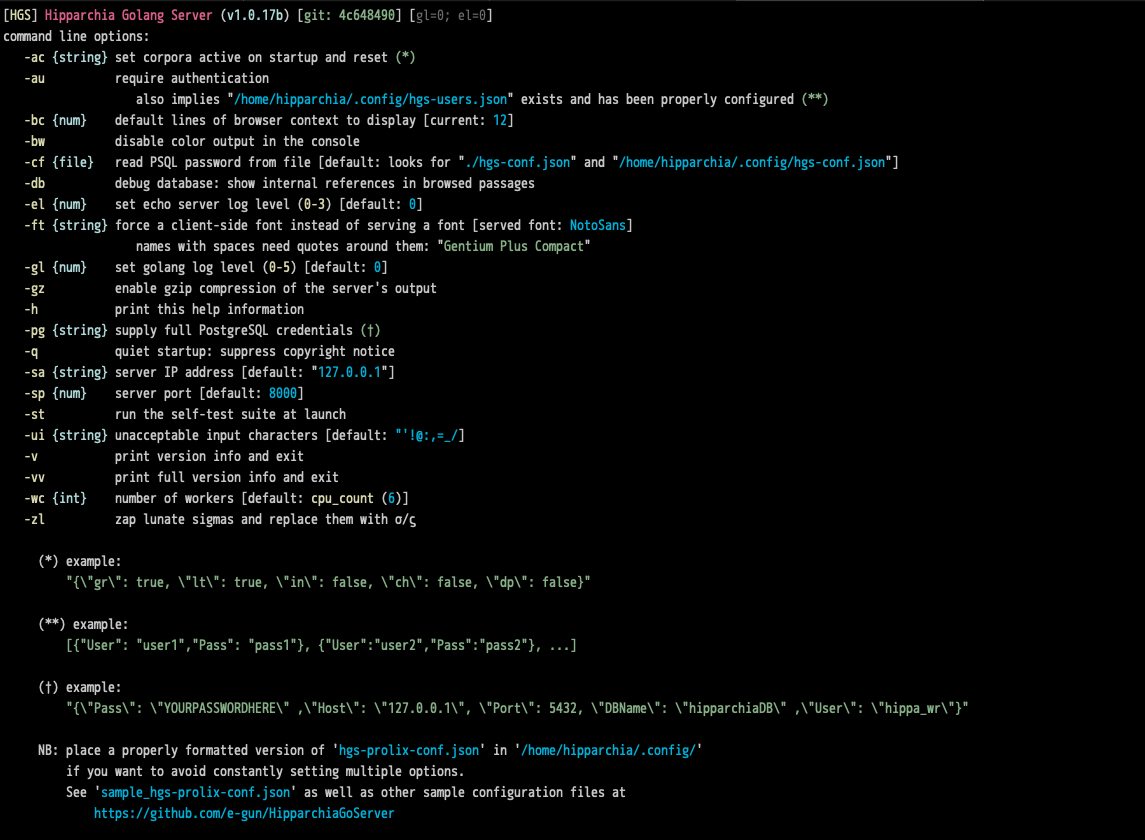
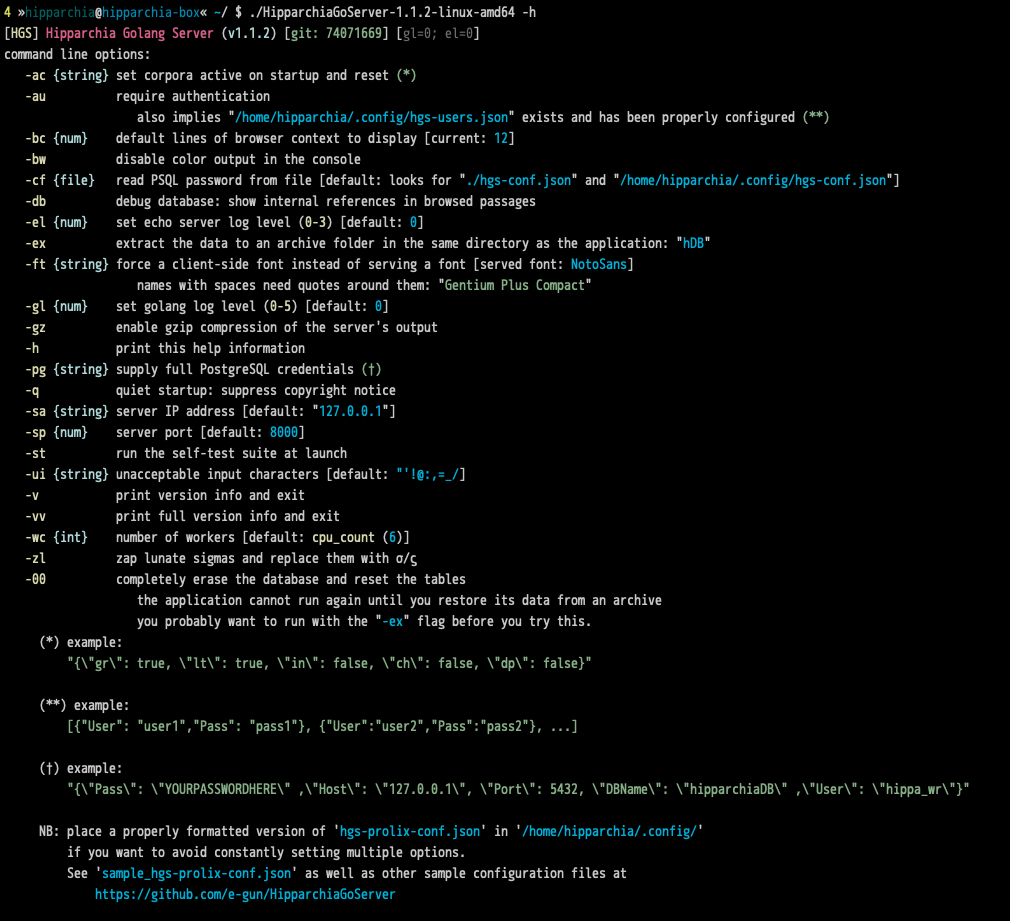
update docs and imgs

Changed region(s): [[0.0, 0.0, 0.9515, 0.9905]]

diff --git a/README.md b/README.md
@@ -59,13 +59,13 @@
       34 unique files.                              
        0 files ignored.
 
-github.com/AlDanial/cloc v 1.96  T=0.03 s (1038.5 files/s, 395145.0 lines/s)
+github.com/AlDanial/cloc v 1.96  T=0.03 s (1076.1 files/s, 414274.5 lines/s)
 -------------------------------------------------------------------------------
 Language                     files          blank        comment           code
 -------------------------------------------------------------------------------
-Go                              34           1952           1776           9209
+Go                              34           1976           1786           9327
 -------------------------------------------------------------------------------
-SUM:                            34           1952           1776           9209
+SUM:                            34           1976           1786           9327
 -------------------------------------------------------------------------------
 
 ```

diff --git a/INSTRUCTIONS/INSTALLATION_WINDOWS.md b/INSTRUCTIONS/INSTALLATION_WINDOWS.md
@@ -125,4 +125,4 @@ PSQL administrator password you entered at `A.4` above.
 
 3. Type `.\HipparchiaGoServer.exe -ex`. The data will be put into a new `hDB` folder in the current directory.
 
-4. That folder take up a lot of room on your machine. You could consider compressing it.
+4. That folder will take up a lot of room on your machine. You could consider compressing it.

diff --git a/INSTRUCTIONS/INSTALLATION_MACOS_RECOMMENDED.md b/INSTRUCTIONS/INSTALLATION_MACOS_RECOMMENDED.md
@@ -101,4 +101,4 @@
 
 3. Type `./HipparchiaGoServer -ex`. The data will be put into a new `hDB` folder in the current directory.
 
-4. That folder take up a lot of room on your machine. You could consider compressing it.
+4. That folder will take up a lot of room on your machine. You could consider compressing it.
